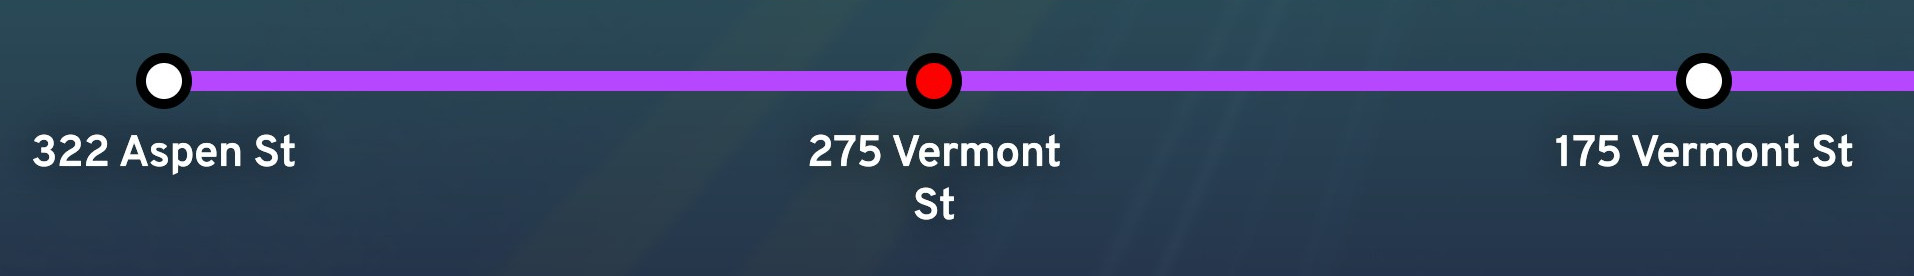
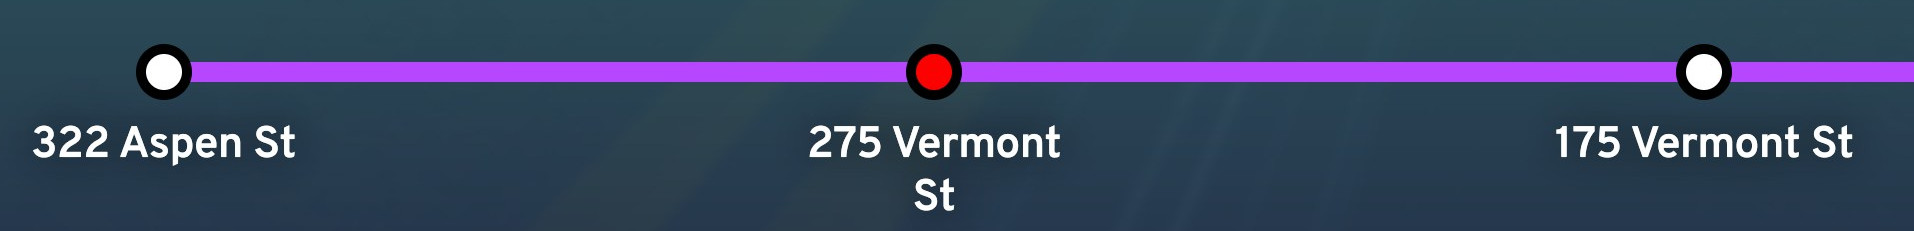
changelog window refinements

diff --git a/UIMod/src/changelogWindow.tsx b/UIMod/src/changelogWindow.tsx
@@ -20,8 +20,8 @@ interface ChangelogSection {
 
 const CHANGELOG_HIGHLIGHTS: ChangelogSection[] = [
     { heading: "Main New Features:", items: [
-        { text: "Added dynamic strip map display when following transit vehicles", image: dynamiclineImg, imageWidth: '640rem', imageHeight: '92rem' },
-        { text: "Added toggleable picture-in-picture overlay (press p)", image: pipwindowImg, imageWidth: '640rem', imageHeight: '175rem' },
+        { text: "Added dynamic strip map stop display when following transit vehicles", image: dynamiclineImg, imageWidth: '640rem', imageHeight: '77rem' },
+        { text: "Added toggleable picture-in-picture overlay (press p)", image: pipwindowImg, imageWidth: '640rem', imageHeight: '144rem' },
         { text: "Added zoom mode (press z)" },
     ]},
 ];
@@ -44,10 +44,10 @@ const SectionList: React.FC<{ sections: ChangelogSection[] }> = ({ sections }) =
     <>
         {sections.map((section, i) => (
             <div key={i} style={i > 0 ? { marginTop: '12rem' } : {}}>
-                <p className="p_CKq" style={{ fontWeight: 'bold', marginBottom: '6rem', fontSize: '18rem' }}>{section.heading}</p>
+                <p className="p_CKq" style={{ fontWeight: 'bold', marginBottom: '6rem', fontSize: '19rem' }}>{section.heading}</p>
                 {section.items.map((item, j) => (
                     <div key={j}>
-                        <p className="p_CKq" style={{ fontSize: '16rem' }}>- {item.text}</p>
+                        <p className="p_CKq" style={{ fontSize: '17rem' }}>- {item.text}</p>
                         {item.image && (
                             <img
                                 src={item.image}
@@ -149,9 +149,9 @@ const ChangelogWindow: React.FC = () => {
                 <div className="content_VBF content_AD7 child-opacity-transition_nkS">
                     <div className="icon-layout_cZT row_L6K">
                         <div className="main-column_Jzk">
-                            <div className="error-message_r4_">
+                            <div className="error-message_r4_" style={{marginTop: '-4rem'}}>
                                 <div className="paragraphs_nbD" style={{ padding: '8rem' }}>
-                                    <p className="p_CKq" style={{ fontSize: '20rem', fontWeight: 'bold', marginBottom: '12rem' }}>{CHANGELOG_TITLE}</p>
+                                    <p className="p_CKq" style={{ fontSize: '21rem', fontWeight: 'bold', marginBottom: '12rem' }}>{CHANGELOG_TITLE}</p>
                                     <SectionList sections={CHANGELOG_HIGHLIGHTS} />
 
                                     {!showMore && (
